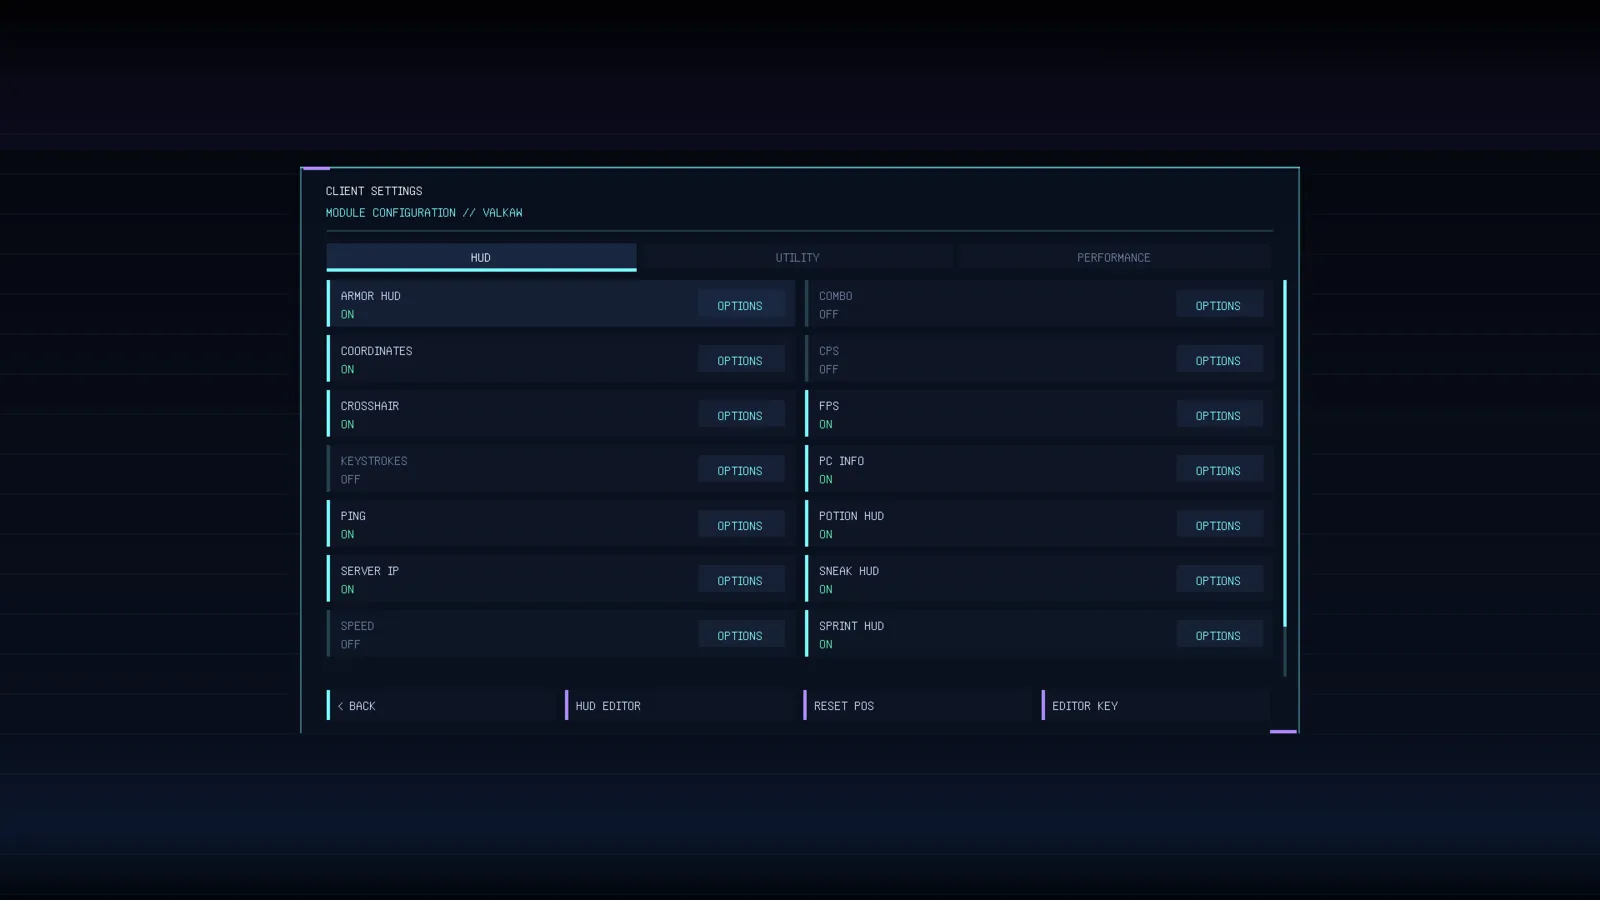
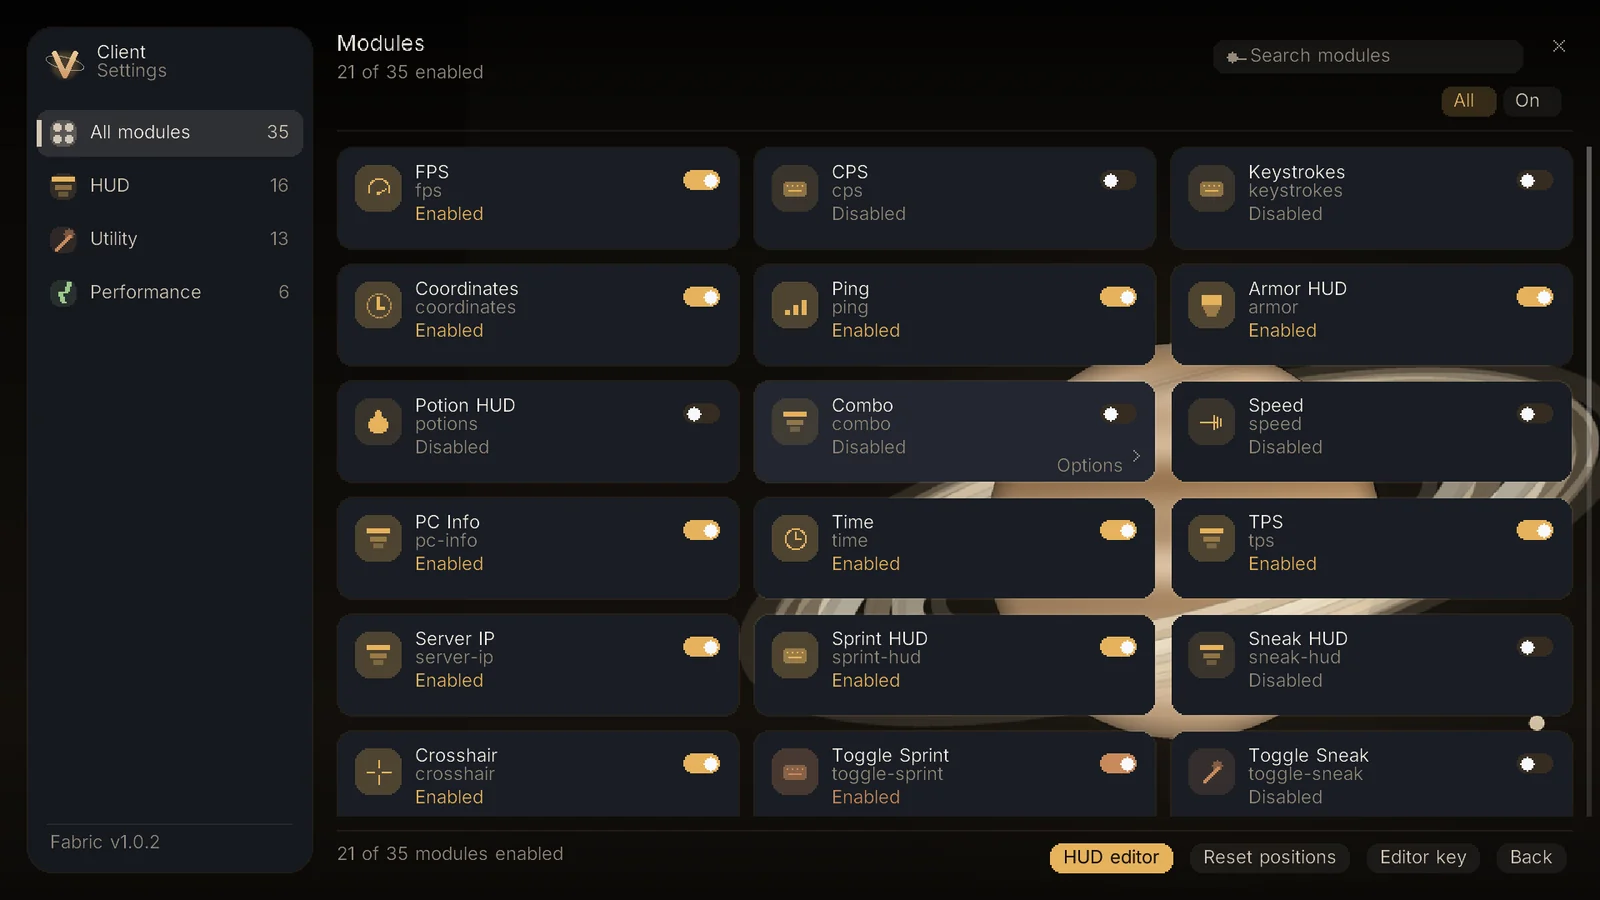
Replace the website screenshots with the current build
Eight captures of client 1.0.2: the Saturn main menu, Client Settings, the HUD editor, the chat symbol panel, the crosshair editor, two in-world views and the launcher. Captions and bundled jar counts follow the images.

diff --git a/Website/src/data/content.ts b/Website/src/data/content.ts
@@ -625,21 +625,21 @@ export const COMPARISONS: ComparisonRow[] = [
 export const ECOSYSTEM_STATS = [
   { label: 'Mods loaded — Sodium', value: 129, suffix: '' },
   { label: 'Mods loaded — Vulkan', value: 111, suffix: '' },
-  { label: 'Bundled jars — Sodium', value: 22, suffix: '' },
-  { label: 'Bundled jars — Vulkan', value: 14, suffix: '' },
+  { label: 'Bundled jars — Sodium', value: 21, suffix: '' },
+  { label: 'Bundled jars — Vulkan', value: 13, suffix: '' },
 ];
 
 export const SCREENSHOTS: Screenshot[] = [
   {
     src: asset('/shots/menu.webp'),
     title: 'Main menu',
-    caption: 'Starfield, cyan panels and a live session readout. Built in, not a menu replacement mod.',
+    caption: 'A Saturn planet, gold accents and five destinations. Built in, not a menu replacement mod.',
     tag: 'MENU',
   },
   {
     src: asset('/shots/settings.webp'),
     title: 'Client settings',
-    caption: 'Every module has a switch and its own options page. No config file editing.',
+    caption: 'Every module has a switch and its own options page. Search, filter by category, no file editing.',
     tag: 'SETTINGS',
   },
   {
@@ -674,8 +674,8 @@ export const SCREENSHOTS: Screenshot[] = [
   },
   {
     src: asset('/shots/ingame_beach.webp'),
-    title: 'Third-person view',
-    caption: 'Freelook without changing where the player is facing. HUD stays readable.',
-    tag: 'FREELOOK',
+    title: 'Coastline',
+    caption: 'Open water, hills and a rock outcrop, with the HUD reading on top of the world.',
+    tag: 'WORLD',
   },
 ];

diff --git a/valkaw-client/src/client/java/com/valkaw/client/gui/CrosshairEditorScreen.java b/valkaw-client/src/client/java/com/valkaw/client/gui/CrosshairEditorScreen.java
@@ -119,7 +119,7 @@ public class CrosshairEditorScreen extends Screen {
 			}
 		}
 
-		String note = "Custom overrides the preset";
+		String note = "Overrides the preset";
 		graphics.drawString(font, Ui.fit(font, note, areaW - 20), previewX + 10,
 				gridY + areaH - 22, Ui.MUTED, false);
 	}
